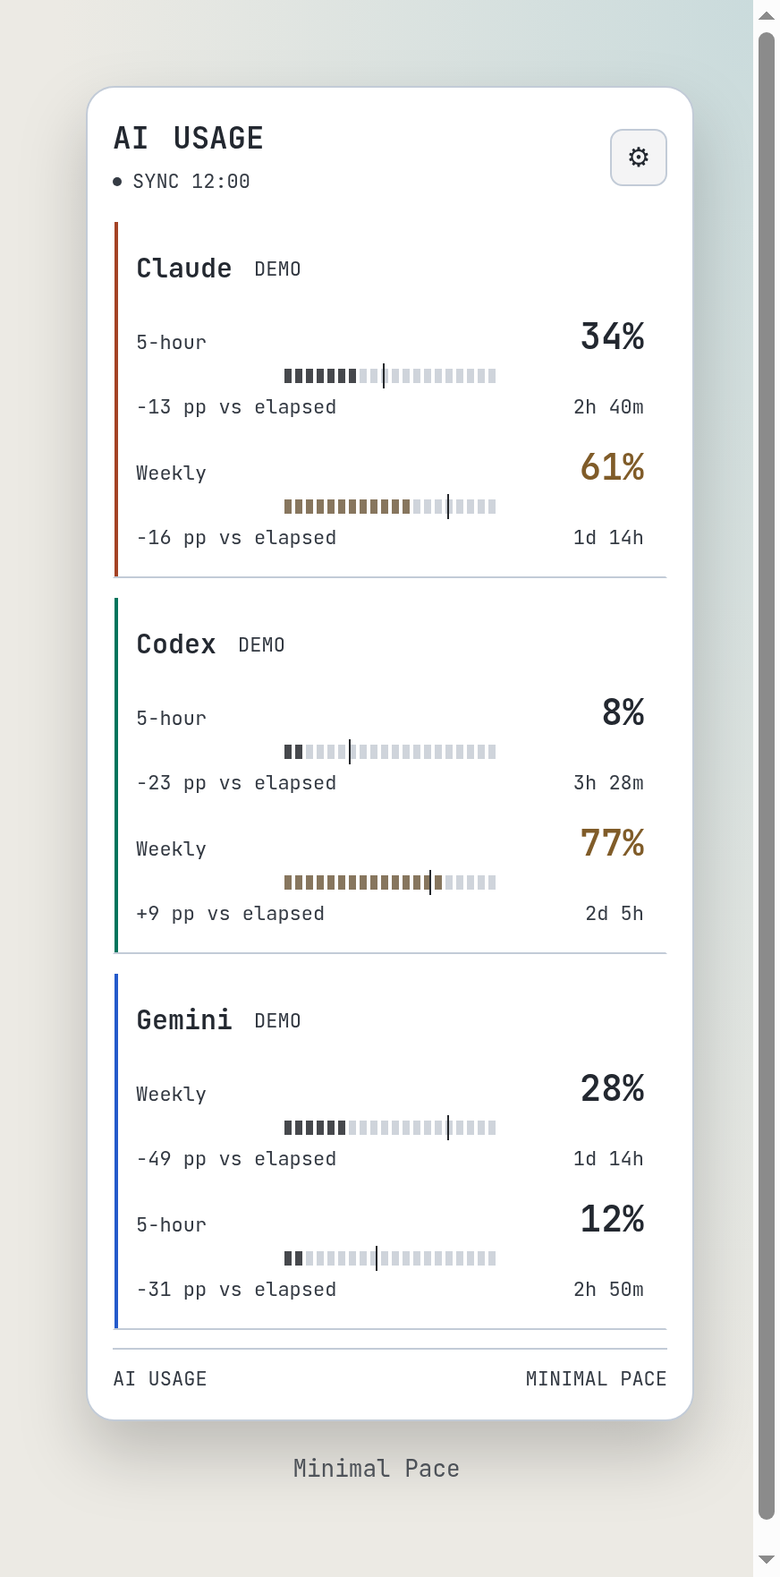
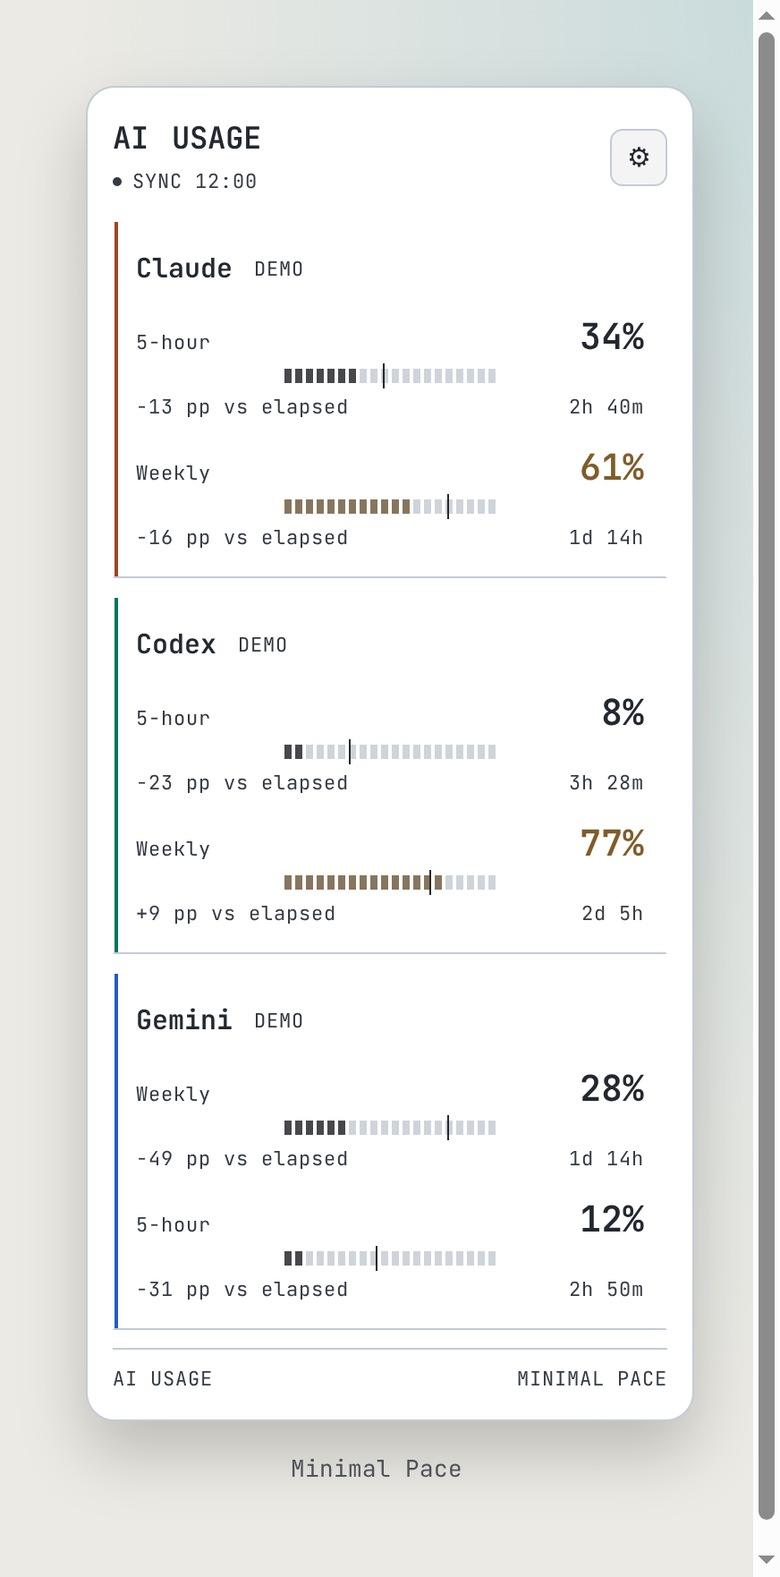
docs: update for 10 themes, new sizes and settings layout

diff --git a/docs/tools/shape-final-sheets.py b/docs/tools/shape-final-sheets.py
@@ -1,0 +1,25 @@
+"""Assemble the synthetic captures from shape-final-sheets.mjs without scaling."""
+from pathlib import Path
+from PIL import Image, ImageDraw
+
+root = Path('gorevler/ss-sekil-final')
+themes = ['system', 'brutalist', 'circular-rings', 'compact-strip', 'dot-matrix', 'frosted-glass', 'minimal-pace', 'reactor', 'retro-lcd', 'terminal']
+shapes = ['portrait', 'landscape', 'square', 'circle', 'pill']
+
+def sheet(items, columns, target):
+    images = [(label, Image.open(path).convert('RGBA')) for label, path in items]
+    width = max(img.width for _, img in images) + 24
+    height = max(img.height for _, img in images) + 48
+    result = Image.new('RGB', (columns * width, ((len(images)+columns-1)//columns)*height), '#141820')
+    draw = ImageDraw.Draw(result)
+    for index, (label, img) in enumerate(images):
+        x, y = (index % columns)*width+12, (index//columns)*height+12
+        draw.text((x, y), label, fill='#f4f5f7')
+        result.paste(img, (x, y+24), img)
+    result.save(target)
+
+for shape in shapes:
+    sheet([(theme, root / f'{shape}-{theme}-Medium.png') for theme in themes], 5, root / f'themes-{shape}.png')
+    sheet([(size, root / f'{shape}-system-{size}.png') for size in ['Small', 'Medium', 'Large', 'X-Large']], 4, root / f'sizes-{shape}.png')
+sheet([(shape, root / f'{shape}-system-Medium.png') for shape in shapes], 3, Path('docs/screenshots/shapes.png'))
+print('10 review sheets and the shapes gallery assembled at original resolution')

diff --git a/docs/design-spec.md b/docs/design-spec.md
@@ -21,12 +21,12 @@ XS breakpoints scale with these same design units.
 ## Widget size contract
 
 Size owns geometry; a theme owns fonts, colors, borders and meter style.
-Five presets multiply all logical dimensions uniformly: Small 75%, Medium 100%,
-Large 125%, X-Large 200%, 2X-Large 250%. Base widths are 255, 340, 425, 680,
-and 850 CSS pixels. Fine-tune is a multiplier (50–150%, default 100%);
+Five presets multiply all logical dimensions uniformly: Small 85%, Medium 100%,
+Large 120%, X-Large 150%, 2X-Large 200%. Portrait base widths are 289, 340, 408, 510,
+and 680 CSS pixels. Small removes secondary chrome and keeps text at least 11 CSS pixels. Fine-tune is a multiplier (50–150%, default 100%);
 the wider range preserves legacy 50–300% scales without changing their size.
 Legacy Normal maps to Medium, Huge to X-Large. Other old scales choose the nearest
-preset plus an exact multiplier: 90 becomes Medium × 90%.
+preset plus an exact multiplier: 90 becomes Small × (90 / 85 × 100)%.
 
 Effective scale is a floating-point percentage, bounded to 10–300% at the IPC
 boundary. Preset × fine-tune is capped at 300%; non-finite scale falls back to
@@ -54,7 +54,7 @@ fonts, rows, padding, gaps and meters; no theme defines separate size metrics.
 Fit height caps the box at the viewport/monitor work area; the provider list
 scrolls when capped, keeping header and footer reachable. Disabling fit height
 keeps the user's window height, while retaining the same card metrics.
-`size-audit.mjs` checks all nine themes × five sizes × 0/1/3/6 providers against
+`size-audit.mjs` checks all ten themes × five sizes × 0/1/3/6 providers against
 these formulas with at most 2 CSS pixels of rounding tolerance, including error
 cards, title font matching and type stretch. It writes `size-audit.json` and
 `size-sheet.png`, with an enlarged header for every theme. These are synthetic
@@ -78,7 +78,7 @@ hollow; System uses a warning hatch on its continuous bar. From 80%, percentage 
 other status badges have monochrome outlines. Unknown marks stay distinct.
 No pulse animation is used, including with reduced motion enabled.
 
-See [the nine-theme Mono gallery](screenshots/mono.png). All data in documentation
+See [the ten-theme Mono gallery](screenshots/mono.png). All data in documentation
 captures is fictional. `node docs/tools/screenshots.mjs` captures the gallery and
 `checks/dots-{200,340,520,700}.png`; checks and numeric results are ignored by Git.
 Each visible row is measured in the browser, with counts recorded per theme.
@@ -226,13 +226,12 @@ authentication and rate-limit states as well as usage percentages and resets.
 ## Shapes
 
 `shape` is independent of theme and size. The selectable values are `portrait`
-(default for missing or unsupported settings), `landscape`, and `square`.
-`circle` and `pill` are reserved native schema values for a future phase; the
-frontend currently normalizes them to portrait and does not expose them.
+(default for missing or unsupported settings), `landscape`, `square`, `circle`
+and `pill`.
 
 All dimensions are logical CSS pixels before DPI scaling. Multiply both axes by
 `sizePresets[sizePreset] / 100 * fineTune / 100`. Small, Medium, Large, X-Large,
-and 2X-Large use 0.75, 1, 1.25, 2, and 2.5 respectively. Physical-size matching
+and 2X-Large use 0.85, 1, 1.2, 1.5, and 2 respectively. Physical-size matching
 also divides by monitor scale. Portrait retains its previous sizing, including
 the Compact Strip exception. Landscape is 680 × 340 and square is 340 × 340 at
 Medium, independent of provider count and theme. Native monitor bounds may cap
@@ -241,13 +240,11 @@ Only portrait uses optional fit-to-content height; the other shapes always
 request their fixed height, even when the saved fit-height option is disabled.
 
 Landscape uses one to three equal columns, then two rows of three for four to
-six providers. Square uses one hero cell or a two-column grid for two to four
-providers. Five or six providers use explicit numbered pages (four providers on
-the first page, the remainder on the next). Paging never changes window size,
-never changes provider configuration, and does not use a background timer.
-The current page is clamped when provider availability changes. An odd final
-card fills both columns on every square page, with the two quota metrics side
-by side. Circular Rings puts its primary ring beside the secondary quota row.
+six providers. Square uses equal full-width rows for up to four providers per
+page, with name and session reset above two side by side quota meters. Five or
+six providers use numbered pages. Paging never changes window size or provider
+configuration and has no background timer. Featured selection only changes the
+order of Square rows. Every row keeps both session and Weekly percentages and bars.
 
 Dense cells first remove sync, plan, and footer metadata, abbreviate stale
 status to a warning dot, then remove reset details. Dense linear themes show
@@ -259,18 +256,23 @@ must fit inside the innermost track after subtracting half its stroke width.
 Brutalist keeps display-size
 bold numbers, Terminal its dashed frame, and Dot Matrix its round dot tracks.
 Extra quota details remain available in portrait. Visible text in the new
-shapes has a 9 CSS px floor; the floor is absolute, independent of rem scaling.
+shapes at Small and 100% fine tuning has an 11 CSS px floor; secondary chrome
+is removed before reducing usage data. Smaller fine-tune values and screen
+fractions retain the existing compact layout.
 
 
 ### Round shape contract
 
-All five shapes share the size presets (75%, 100%, 125%, 200%, 250%) and fine tuning. Medium circle is 340 × 340 CSS pixels; Medium pill is 480 × 120. Geometry is independent of theme and provider count. Circle uses a circular mask; pill uses a radius of half its height.
+All five shapes share the size presets (85%, 100%, 120%, 150%, 200%) and fine tuning. Medium circle is 340 × 340 CSS pixels; Medium pill is 480 × 120. Geometry is independent of theme and provider count. Circle uses a circular mask; pill uses a radius of half its height.
 
 Circle and pill show up to three providers selected per widget in Settings → Layout & Position → Providers on this widget. An absent selection defaults to the first three enabled providers; an empty selection intentionally shows none. Other enabled providers remain visible in settings and in rectangular layouts. Selection does not change collector consent.
 
 A single-provider circle shows session outside and weekly inside. Multiple providers have concentric session tracks and a highest-usage center. Labels, percentages and reset countdown occupy the inner safe square; settings sits inside the top safe zone. Dot Matrix uses dotted tracks, Retro LCD segmented arcs, Terminal dashed radar tracks, Brutalist heavy rings and oversized numerals, Minimal Pace thin tracks, and Frosted Glass a blurred lens. Compact Strip supports the circle as a slim-track dial using its own palette and typography.
 
-Pill shows inline provider cells, primary reset time, dual quota meters, and an internal settings button; header and footer are omitted. Text is at least 9 CSS pixels. Right-click opens the context menu inside either silhouette; Ctrl+, opens Settings. Dragging an unlocked widget works across its surface.
+Pill shows frameless provider columns with colored identity marks, dual quota
+meters and stacked settings/quote controls. Session reset appears from Large.
+Percentages are at least 15 CSS pixels at Medium and 13 at Small; other text
+stays at least 11 CSS pixels at Small with 100% fine tuning. Right-click opens the context menu inside either silhouette; Ctrl+, opens Settings. Dragging an unlocked widget works across its surface.
 
 Native input regions match the silhouette: Win32 applies physical-pixel ellipse/capsule regions and transfers region ownership to Windows; GTK applies logical-pixel cairo scanlines to its input region on both X11 and layer-shell Wayland. Resize, DPI and shape changes are coalesced for 40 ms; identical regions are skipped. Rectangular shapes restore the entire input region. Native click-through still requires manual compositor testing.
 
@@ -283,7 +285,7 @@ Quote is opt-in. In portrait, enabled quotes use a 320px reading block and
 providers the total remains 946px at 100%. Grid themes share this same budget.
 Usage overflow is measured after rendering and on list resize/font readiness.
 In a three-provider portrait grid, the featured row first donates spare height
-to the paired row. Featured quote content stays grouped near the heading.
+to the paired row. Featured quote content shares spare height between its quota windows.
 Only cards that still overflow compact their internal spacing and then reduce
 text, stopping at 11px (existing smaller labels keep their authored size).
 Dense Minimal Pace cards show the signed percentage-point delta with its
@@ -302,7 +304,7 @@ full tooltip; author description is available in the dialog.
 `quotePosition` is `bottom` by default, including persisted settings that omit
 it; `top` places the reading block before providers in portrait and landscape.
 Circle and square keep their quote page; pill keeps its quote dialog.
-Preset changes preserve `fineTune`. Large is 125% to reduce the jump from Medium.
+Preset changes preserve `fineTune`. Large is 120%; X-Large is 150% and 2X-Large is 200%.
 The monitor preview reports requested dimensions and the largest effective
 percentage that fits its work area after margins. Oversize selections retain
 the saved preset and fine tuning while the actual display scale is capped to
@@ -321,13 +323,12 @@ the next scheduled round. Disabled quotes perform no network or cache access.
 ## Fit to screen
 
 Layout & Position offers Fixed size (the existing presets and fine tuning) and
-Fit to screen. The latter uses Full, 3/4, 1/2 or 1/3 of the selected monitor's
-available primary axis, with independent 50–150% fine tuning. Portrait, square
-and circle use height; landscape and pill use width. The other axis limits the
-result, preserving the shape's aspect ratio. Full fills the primary axis when
-the aspect ratio permits it, after the existing edge margins. Consequently a
-wide pill cannot also fill the monitor's height. Saved fixed size settings and
-the default installation behavior remain unchanged.
+Fit to screen. It applies only to Portrait, excluding Compact Strip; other
+combinations use their fixed preset while retaining the stored screen mode.
+Full, 3/4, 1/2 and 1/3 target the available height with independent 50–150% fine
+tuning. Width cannot exceed 30% of the available work area. The coverage and
+height limits remain safety nets, preserving aspect ratio. Fit is disabled in
+Settings with “Portrait only” when unavailable, and returns on switching back.
 
 All geometry, the monitor map and fit warnings use only rendered providers
 (after visibility, availability, selection and pagination). Windows supplies its
@@ -352,3 +353,16 @@ Settings persist `sizeMode` (`fixed` / `screen`), `fitFraction` (1, 0.75, 0.5,
 and `scale` for switching back to Fixed size. Physical size matching is inactive
 in Screen mode because the available desktop area determines the size; Ctrl +/-
 and Ctrl 0 adjust/reset the active mode's fine tuning.
+
+### Shape usability
+
+Fit screen is effective only for Portrait, excluding Compact Strip. Changing shape
+preserves the stored mode and restores Fit on return. Portrait Fit width is capped
+at 30% of the available work area; the existing coverage cap still applies.
+Oversize presets are disabled in Settings with their actual fitted dimensions.
+Square uses equal full-width provider rows, with two side by side quota meters
+and a reset time in the heading from Medium. Featured selection only changes order.
+Pill uses identity-colored names, 5h and W values and slim bars without card boxes
+or plan chips; session reset time appears from Large. Circle includes featured
+Weekly usage and removes card separators and elapsed markers.
+Expired reset times read “Awaiting refresh”. Onboarding uses a plain portrait shell.

diff --git a/docs/configuration.md b/docs/configuration.md
@@ -2,7 +2,7 @@
 
 Display settings and quota collection settings are separate. Change display settings using the gear button; do not edit files while the widget is saving them. The browser's `?sample` mode uses synthetic data and never saves native settings.
 
-Theme defaults to System when no choice is stored; an existing explicit theme is preserved. Theme and newer Look fields persist in the local webview store until the native settings schema supports them, so copying `settings.json` alone does not transfer them.
+Theme defaults to System when no choice is stored; an existing explicit theme is preserved. Theme and appearance fields persist in `settings.json`; optional webview cache values are also kept for startup.
 
 ## Display settings
 
@@ -10,7 +10,7 @@ Theme defaults to System when no choice is stored; an existing explicit theme is
 
 | Field | Default | Meaning |
 | --- | --- | --- |
-| `theme` | `system` | System, Dot Matrix and seven other designs; selected in Settings → Theme. |
+| `theme` | `system` | System, Dot Matrix and eight other designs; selected in Settings → Theme. |
 | `appearance` | `auto` | `auto`, `light`, `dark`; auto follows OS color preference live. |
 | `colorMode` | `calm` | Neutral or system-accent usage below 50%, soft amber from 50%, muted red from 80%; `vivid` restores theme colors. |
 | `accentEdge` | `off` | `off`, `auto`, `left`, `right`; Auto follows the selected corner, with no edge in Free placement. |
@@ -18,7 +18,10 @@ Theme defaults to System when no choice is stored; an existing explicit theme is
 | `accent`, `background` | `null` | Optional CSS color overrides; choosing a palette clears these overrides. |
 | `widgetOpacity` | `100` | Opacity of the entire widget, including text; UI range 20–100. |
 | `backgroundOpacity` | `100` | Background opacity, 0–100; this does not enable compositor blur. |
-| `scale` | `100` | Rem-based text and layout scale, 50–300%; presets 75/100/150/200. Ctrl +/− changes by 10, Ctrl+0 restores 100. |
+| `scale` | `100` | Derived text and layout scale, 10–300%; presets 85/100/120/150/200 multiplied by fine-tune. Ctrl +/− changes the active fine-tune by 5; Ctrl+0 resets that fine-tune to 100. Work-area and coverage limits apply. |
+| `sizeMode`, `sizePreset`, `fineTune` | `fixed`, `Medium`, `100` | Fixed preset and independent 50–150% fine-tuning, under Size & Shape. |
+| `fitFraction`, `fitFineTune` | `1`, `100` | Screen share (1, .75, .5, 1/3) and separate 50–150% fine-tuning for Fit screen. Effective only for Portrait except Compact Strip; other shapes retain the choice but use their preset. Portrait Fit width is capped at 30% of available width. |
+| `reservedTop`, `reservedBottom` | `null` | Auto detected insets; explicit logical pixel overrides under Position → Advanced. |
 | `fitHeight` | `true` | Resize to content height. Width still controls the responsive layout. |
 | `position` | `Top right` | Top/Bottom + left/right corners, or `Free` where supported. |
 | `showExtraWindows` | `false` | Reveal secondary/model windows that the source marks hidden. |
@@ -40,7 +43,7 @@ Theme defaults to System when no choice is stored; an existing explicit theme is
 }
 ```
 
-Linux `layer` is `top` or `bottom`; margin is 0–64 logical pixels in the UI; monitor is null for Auto or a zero-based GDK index (not a permanent monitor identity). Layer-shell requires a corner. Windows `window` is `session`, `weekly` or `both`; `style` is `transparent` or `chip`; `theme` is `auto`, `light` or `dark`. Start at login uses the OS autostart registration, not a field in this file.
+Linux `layer` is `top` or `bottom`; margin is 0–64 logical pixels in the UI; monitor is null for Auto, a monitor connector/name, or a legacy zero-based GDK index. Layer-shell requires a corner. Windows `window` is `session`, `weekly` or `both`; `style` is `transparent` or `chip`; `theme` is `auto`, `light` or `dark`. Start at login uses the OS autostart registration, not a field in this file.
 
 XS/S/M/L are descriptive responsive layouts, not selectable settings. Current CSS uses ≤219 px for XS and 220–320 px for S at 100% scale; larger widths use detailed cards, with more space at 520 px or 700 px height. Two cards can sit side by side at 640 px, three at 960 px. The theme metadata's nominal tier widths are not runtime breakpoint selectors.
 
@@ -82,3 +85,25 @@ Provider CLIs must be discoverable in the desktop process environment, which can
 Hook chaining uses a JSON argv array: `quotacore hook claude --chain-cmd '["program", "argument"]'`. `--chain` is now an alias for the same JSON format; old shell strings must be migrated explicitly to `--chain-shell`. Both receive raw stdin, allow 5 seconds and at most 64 KiB stdout. Only trust commands you select.
 
 System uses a system-ui font stack without bundled theme fonts, 8 px cards and continuous rounded bars. Auto appearance follows `prefers-color-scheme`; supported webviews use CSS `AccentColor` and `AccentColorText`, with a neutral blue-gray fallback. Mono retains continuous bars and adds a warning hatch / inverse danger label. System keeps one column at wide sizes.
+
+### Settings pages and screen limits
+
+Navigation is Providers, Theme, Size & Shape, Position, Quote, Taskbar strip
+(Windows), Desktop (Linux), and General. Provider order and the featured provider
+are under Providers. Theme includes Palette, Mode, Colors and Provider colors;
+theme-specific details appear only when applicable. General contains Start at
+login, Show extra windows and diagnostics.
+
+Size & Shape starts with shape cards and six size choices. Each choice displays
+the actual fitted pixel dimensions, including DPI and fine-tuning. Oversized fixed
+presets are disabled. Fit screen uses Largest, 3/4, 1/2 or 1/3 with independent
+fine-tuning; the strip uses width as its main axis. Every size, including Ctrl +/-
+shortcuts, stays inside the work area and covers at most 50% of its available
+area (35% for the portrait compact strip). Theme and shape changes preserve the
+saved size mode, preset and fine-tune. Position starts with the monitor map and
+corner presets; manual reserved edges are under Advanced. Existing files remain
+compatible, including named corner positions and Free placement ratios.
+
+Changes preview live. Save and Revert activate for unsaved changes. Save verifies
+the persisted settings by loading them again before displaying a saved time;
+errors remain visible and can be retried.

diff --git a/README.md b/README.md
@@ -59,7 +59,7 @@ Open Vite's displayed URL with `?sample` to see fictional data. For a native sou
 
 Keep a compact row beside your editor or expand into detailed cards. Each theme uses the same local data.
 
-![Four different themes at XS, S, M and L window sizes](docs/screenshots/sizes.png)
+![Five presets at 85, 100, 120, 150 and 200 percent](docs/screenshots/sizes.png)
 <sub>XS: Terminal / Phosphor · S: Retro LCD / Liquid Crystal, Light · M: Frosted Glass / Acrylic · L: Brutalist / Acid. Vivid, fictional data.</sub>
 
 Scale text and spacing together from 50% to 300%, with presets or Ctrl +/− and Ctrl+0. Numbers keep their proportions at every size.
@@ -87,16 +87,16 @@ Change palette, opacity, scale and placement in one panel. Calm uses neutral usa
 
 <picture>
   <source media="(prefers-color-scheme: light)" srcset="docs/screenshots/settings-light.png">
-  <img src="docs/screenshots/settings-dark.png" alt="AI Usage widget and display settings in two theme variants" width="980">
+  <img src="docs/screenshots/settings-dark.png" alt="Size and shape settings in light and dark appearance" width="980">
 </picture>
-<sub>Dark: Circular Rings / Ocean · Light: Frosted Glass / Acrylic. Vivid, fictional data.</sub>
+<sub>Size & Shape settings · Light and Dark · fictional data.</sub>
 
 Prefer the familiar? System uses your desktop font, light/dark appearance and system accent where supported. It is the default theme.
 
 ![System theme adapts to light and dark desktop appearance](docs/screenshots/system.png)
 <sub>System / Desktop · Light and Dark · Calm · fictional data.</sub>
 
-### Nine designs, one snapshot
+### Ten designs, one snapshot
 
 ![Ten themes in two rows, mixing light and dark appearance](docs/screenshots/themes.png)
 <sub>Top: System, Dot Matrix / Sakura Pink, Circular Rings, Terminal, Frosted Glass. Bottom: Brutalist, Compact Strip, Retro LCD, Minimal Pace. Alternating Dark / Light, Vivid, fictional data.</sub>
@@ -199,8 +199,9 @@ Choose Portrait, Landscape (2:1), Square, Circle Dial, or Pill (4:1) in Settings
 Provider layout is configurable in **Layout & Position → Provider layout**.
 Drag rows or use Up / Down, and toggle visibility without disabling collection.
 Choose Auto (highest usage across quota windows), a specific featured provider,
-or None. Top / Bottom places the large cell in portrait and square grids; None
-centers the unpaired half-width cell. Missing layout settings preserve the
+or None. Top / Bottom places the large cell in portrait; None
+centers its unpaired half-width cell. Square keeps equal full-width rows and uses
+featured selection only for order. Missing layout settings preserve the
 legacy last-cell layout and automatic circle center. Hidden or unselected
 featured providers are not silently replaced.
 
@@ -208,3 +209,9 @@ featured providers are not silently replaced.
 with matching surfaces in all other shapes. Breathing is off by default and
 respects reduced motion. Calm softens meter hues and tracks; Vivid increases
 saturation and arc weight. Mono retains provider patterns.
+
+Sizes: Small 85%, Medium 100%, Large 120%, X-Large 150%, 2X-Large 200%,
+with separate fine tuning. Small keeps text at least 11 CSS pixels and removes
+secondary chrome. Fit screen applies to Portrait (except Compact Strip), with a
+30% work-area width cap; changing shape preserves the saved Fit choice.
+Square and Pill keep both 5-hour and Weekly meters for every visible provider.

diff --git a/docs/tools/README.md b/docs/tools/README.md
@@ -43,7 +43,7 @@ in the results; actual WebView2/WebKitGTK desktop rendering needs platform check
 Typography checks use a single “8” probe in every visible numeric style, with
 computed font properties copied from the real number element. DOM rectangle
 height/width ratios are measured at 200/340/520/700 CSS px × 75/100/150% for all
-nine themes. `checks/typography.json` records each measurement; the capture fails
+ten themes. `checks/typography.json` records each measurement; the capture fails
 if the ratio range exceeds 3%. `SCENE=checks/typography` runs just this matrix.
 This measures the glyph layout box, not the image pixel ink bounding box.
 
@@ -158,7 +158,7 @@ layouts at every scale; externally narrowed viewports (below 18 root-font units)
 scroll access. Display type uses `--size-font-display` in rem, with no glyph scaling.
 
 `node docs/tools/shape-preview.mjs` checks square pagination and transitions and
-produces `docs/screenshots/shapes.png` from nine themes with fictional data.
+produces `docs/screenshots/shapes.png` from ten themes with fictional data.
 Landscape and square have fixed 680 × 340 / 340 × 340 Medium boxes. Their theme
 identity checks include the 9 CSS px text floor and 25% trailing-space budget.
 Contrast checks cover both shapes in addition to the portrait viewport matrix.
@@ -313,3 +313,21 @@ cargo test --offline live_desktop_work_area -- --ignored --nocapture
 
 This diagnostic requires access to the local session bus and GTK display and
 prints real geometry; keep its output outside the repository.
+
+Shape usability acceptance (headless, synthetic data only):
+
+```sh
+CHROME_BIN=/opt/brave-origin-bin/brave node docs/tools/shape-final-check.mjs
+CHROME_BIN=/opt/brave-origin-bin/brave node docs/tools/onboarding-shape-check.mjs
+CHROME_BIN=/opt/brave-origin-bin/brave node docs/tools/shape-final-sheets.mjs
+python3 docs/tools/shape-final-sheets.py
+```
+
+The shape matrix covers 10 themes × 5 shapes × 3 presets × quote on/off ×
+1/2/3 providers (900 cases), including the 11 CSS px text floor, clipped content,
+Square/Pill values and bars, equal Square rows, Pill percentage sizes and hidden
+plan chips, and Circle separators. Geometry and effective mode are additionally
+covered by `tests/screen-fit.mjs`. `AUDIT_THEMES`, `AUDIT_SHAPES` and `AUDIT_OUTPUT`
+allow focused reruns. Captures use 21/33, 8/13 and 30/18; the review sheets and
+results go to `gorevler/ss-sekil-final/`. The optional sheet assembly uses the
+already installed Pillow and preserves screenshot resolution.
